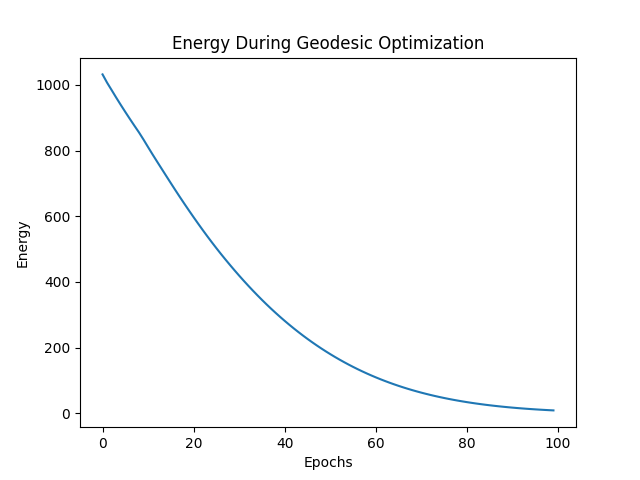
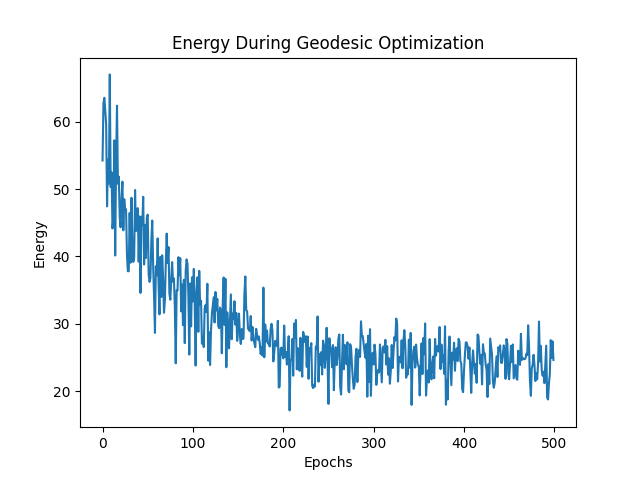
added plots

diff --git a/Project2/ensemble_vae.py b/Project2/ensemble_vae.py
@@ -30,6 +30,8 @@ if __name__ == "__main__":
 
     # python3 Project2/ensemble_vae.py geodesics --device cpu --latent-dim 2 --epochs 50 --batch-size 64 --experiment-folder Project2/models
 
+    # python3 Project2/ensemble_vae.py geodesics_ensamble --device cpu --latent-dim 2 --epochs 50 --batch-size 64 --experiment-folder Project2/models
+
     # python3 Project2/ensemble_vae.py TestEnsamble --device cpu --latent-dim 2 --epochs 50 --batch-size 64 --experiment-folder Project2/models
 
     # python3 Project2/ensemble_vae.py sample --device cpu --latent-dim 2 --epochs 100 --batch-size 64 --experiment-folder Project2/models
@@ -45,7 +47,7 @@ if __name__ == "__main__":
         "mode",
         type=str,
         default="train",
-        choices=["train", "sample", "eval", "geodesics","testing", "trainEnsamble","TestEnsamble"],
+        choices=["train", "sample", "eval", "geodesics","testing", "trainEnsamble","TestEnsamble","geodesics_ensamble"],
         help="what to do when running the script (default: %(default)s)",
     )
     parser.add_argument(
@@ -403,6 +405,7 @@ if __name__ == "__main__":
 
     elif args.mode == "geodesics":
         import numpy as np
+        import json
         model = VAE(
             GaussianPrior(M),
             GaussianDecoder(new_decoder()),
@@ -530,6 +533,11 @@ if __name__ == "__main__":
 
         point_pair = select_random_point_pairs(z_matrix.shape[0], n)
         print(point_pair)
+
+        if True:
+            with open("points.json", "w") as f:
+                json.dump(point_pair, f)
+
         # Track energy values and curves for plotting
         all_curves = []
         all_energy_values = []
@@ -545,7 +553,7 @@ if __name__ == "__main__":
             point_2 = torch.tensor(z_matrix[r_2])
 
             # Number of sample points along the curve
-            S = 20
+            S = 30
 
             # Initialize intermediate points as a straight line between start and end (excluding start and end)
             c_inner = torch.linspace(0, 1, S-2).unsqueeze(1) * (point_2 - point_1) + point_1  # Exclude start and end
@@ -554,7 +562,7 @@ if __name__ == "__main__":
             
             # Track energy over iterations
             energy_values = []
-            num_epoch = 100
+            num_epoch = 500
             
             # Example optimization loop
             optimizer = torch.optim.Adam([c_inner], lr=0.01)  # Optimizing the intermediate points `c_inner`
@@ -562,7 +570,7 @@ if __name__ == "__main__":
             # Wrap the epoch loop with tqdm for progress tracking
             for epoch in range(num_epoch):
                 optimizer.zero_grad()  # Zero the gradients
-                energy = compute_energy(c_inner)  # Compute the current energy
+                energy = compute_energy_simple(c_inner)  # Compute the current energy
                 energy_values.append(energy.item())  # Store the energy value for this iteration
 
                 energy.backward()  # Compute gradients
@@ -599,7 +607,7 @@ if __name__ == "__main__":
         plt.title('Optimized Geodesic Curve')
         plt.xlabel('Latent Dimension 1')
         plt.ylabel('Latent Dimension 2')
-        plt.savefig("Project2/plots/Geodesic_plot.png")
+        plt.savefig("Project2/plots/Geodesic_plot_simple.png")
         plt.show()
 
         # After optimization, plot the energy values
@@ -613,6 +621,179 @@ if __name__ == "__main__":
        
 
 
+
+    elif args.mode == "geodesics_ensamble":
+        import numpy as np
+        import json
+        num_decoders= 4
+        num_model = 2
+        model = VAE_ensemble(
+            GaussianPrior(M),
+            [GaussianDecoder(new_decoder(M=M)) for _ in range(num_decoders)],  # Create an ensemble of decoders
+            GaussianEncoder(new_encoder(M=M)),
+        ).to(device)
+        model.load_state_dict(torch.load(args.experiment_folder + "/model_"+str(num_decoders)+"_"+str(num_model)+".pt"))
+        model.eval()
+        
+        def mean_func(model,z):
+            ran_num= torch.randint(0, model.num_decoder, (1,)).item()
+            decoder = model.decoders[ran_num]
+            return decoder(z).mean.view(-1)  # Flatten output to (784,)
+        
+        def compute_energy_ensamble(model,c):
+            energy = 0.0
+            for s in range(1, c.shape[0]):
+                f_s = mean_func(model,c[s,:].unsqueeze(0))  # f(c_s)
+                f_s_minus_1 = mean_func(model,c[s - 1,:].unsqueeze(0))  # f(c_s-1)
+                
+                # Compute squared L2 norm
+                diff = f_s - f_s_minus_1
+                energy += torch.norm(diff) ** 2  # Squared L2 norm of the difference
+            
+            return energy
+        
+        #________Extract points____________
+        data_iter = iter(mnist_train_loader)
+        point_list = []
+        target = []
+        images = []
+        for i in range(30):
+            x, y = next(data_iter)
+            images.append(x)
+            x = x.to(device)
+            q = model.encoder(x)
+            
+            z = q.rsample().detach().cpu()
+            
+            point_list.append(z)  # Keep as tensor
+            target.append(y)
+
+        # Concatenate across batches
+        z_matrix = torch.cat(point_list, dim=0).numpy()  # Shape: [50*32, 20]
+        target_tensor = torch.cat(target, dim=0)  # Shape: [50*32]
+        x = z_matrix[:, 0]  # First principal component
+        y = z_matrix[:, 1]  # Second principal component
+
+        #adds varaince background color
+        if True:
+            x_min = min(x)-0.5
+            x_max = max(x)+0.5
+            y_min = min(y)-0.5
+            y_max = max(y)+0.5
+            # Define step size (adjust for resolution)
+            x_step = 0.05
+            y_step = 0.05
+            # Create grid points
+            x_values = np.arange(x_min, x_max + x_step, x_step)
+            y_values = np.arange(y_min, y_max + y_step, y_step)
+            X, Y = np.meshgrid(x_values, y_values)
+            # Flatten the grid for scatter plot
+            x_flat = X.flatten()
+            y_flat = Y.flatten()
+            # Ensure we get the correct shape
+            grid_shape = X.shape  # This should be (rows, cols
+            grid_points = torch.tensor(np.stack((x_flat, y_flat), axis=0), dtype=torch.float32)
+            grid_points_var = model.decoders[0](grid_points.T).mean
+            flattened = grid_points_var.reshape(grid_points.shape[1], 1, 28 * 28)  # or variable.view(875, 1, 784)
+            # Take mean across last dimension (875, 1, 784) -> (875, 1)
+            mean_varaince = flattened.std(dim=-1)
+            background_colors = mean_varaince.squeeze().detach().cpu().numpy()
+            background_colors = background_colors.reshape(grid_shape)
+            plt.pcolormesh(X, Y, background_colors, cmap="Greens")  
+            plt.xlim(x_min, x_max)  # X-axis limits from 0 to num_steps
+            plt.ylim(y_min, y_max)
+
+        tensor_list = [tensor.squeeze(1) for tensor in images]
+
+        # Concatenate the list of tensors along the first dimension
+        images_tensor = torch.cat(tensor_list, dim=0)
+
+        n = 25  # You can set this to any number of pairs you want to process
+
+        with open("points.json", "r") as f:
+            point_pair = json.load(f)
+
+        # Track energy values and curves for plotting
+        all_curves = []
+        all_energy_values = []
+        for pair in tqdm(range(n), desc="Optimizing points", unit="Point Pair"):
+            r_1, r_2 = point_pair[pair]
+            
+            img_1 = images_tensor[r_1,:,:].unsqueeze(0).to(device)  # First image from the first batch (add batch dimension)
+
+            # Access the second batch
+            img_2 = images_tensor[r_2,:,:].unsqueeze(0).to(device)
+
+            point_1 = torch.tensor(z_matrix[r_1])  # Assuming model.encoder gives the latent representation
+            point_2 = torch.tensor(z_matrix[r_2])
+
+            # Number of sample points along the curve
+            S = 30
+
+            # Initialize intermediate points as a straight line between start and end (excluding start and end)
+            c_inner = torch.linspace(0, 1, S-2).unsqueeze(1) * (point_2 - point_1) + point_1  # Exclude start and end
+            # Now pass only the intermediate points to nn.Parameter
+            c_inner = torch.nn.Parameter(c_inner)  # Optimizable parameters
+            
+            # Track energy over iterations
+            energy_values = []
+            num_epoch = 500
+            
+            # Example optimization loop
+            optimizer = torch.optim.Adam([c_inner], lr=0.01)  # Optimizing the intermediate points `c_inner`
+
+            # Wrap the epoch loop with tqdm for progress tracking
+            for epoch in range(num_epoch):
+                optimizer.zero_grad()  # Zero the gradients
+                energy = compute_energy_ensamble(model, c_inner)  # Compute the current energy
+                energy_values.append(energy.item())  # Store the energy value for this iteration
+
+                energy.backward()  # Compute gradients
+                optimizer.step()  # Update the curve points to minimize the energy
+
+            # Store initial curve for plotting
+            c_final = torch.vstack([point_1, c_inner.detach(), point_2]).numpy() 
+
+            #plot curve:
+            plt.plot(c_final[:, 0], c_final[:, 1])  # Example if it's 2D latent space
+        
+        # Define color map for classes
+        color_map = {0: 'red', 1: 'blue', 2: 'purple'}
+
+        # Assign colors to points based on their class label
+        colors = [color_map[label] for label in target_tensor.detach().numpy()]
+
+        scatter = plt.scatter(x, y, c=colors, alpha=1, s=3)
+        #scatter = plt.scatter(x, y, c=target_tensor.detach().numpy())
+        
+        # Create a legend with color patches matching the points' colors
+        classes = [0, 1, 2]
+        class_labels = ['0', '1', '2']
+
+        # Create legend handles with corresponding colors
+        legend_handles = [
+            plt.Line2D([0], [0], marker='o', color='w', markerfacecolor=color_map[class_value], markersize=8, label=label)
+            for class_value, label in zip(classes, class_labels)
+        ]
+
+        # Add the legend to the plot
+        plt.legend(handles=legend_handles, title="Classes")
+
+        plt.title('Optimized Geodesic 4-decoder Model')
+        plt.xlabel('Latent Dimension 1')
+        plt.ylabel('Latent Dimension 2')
+        plt.savefig("Project2/plots/Geodesic_plot_ensamble.png")
+        plt.show()
+
+        # After optimization, plot the energy values
+        plt.plot(energy_values)
+        plt.xlabel('Epochs')
+        plt.ylabel('Energy')
+        plt.title('Energy During Geodesic Optimization')
+        plt.savefig("Project2/energy_optim.png")
+        plt.show()
+
+       
 
 
 
